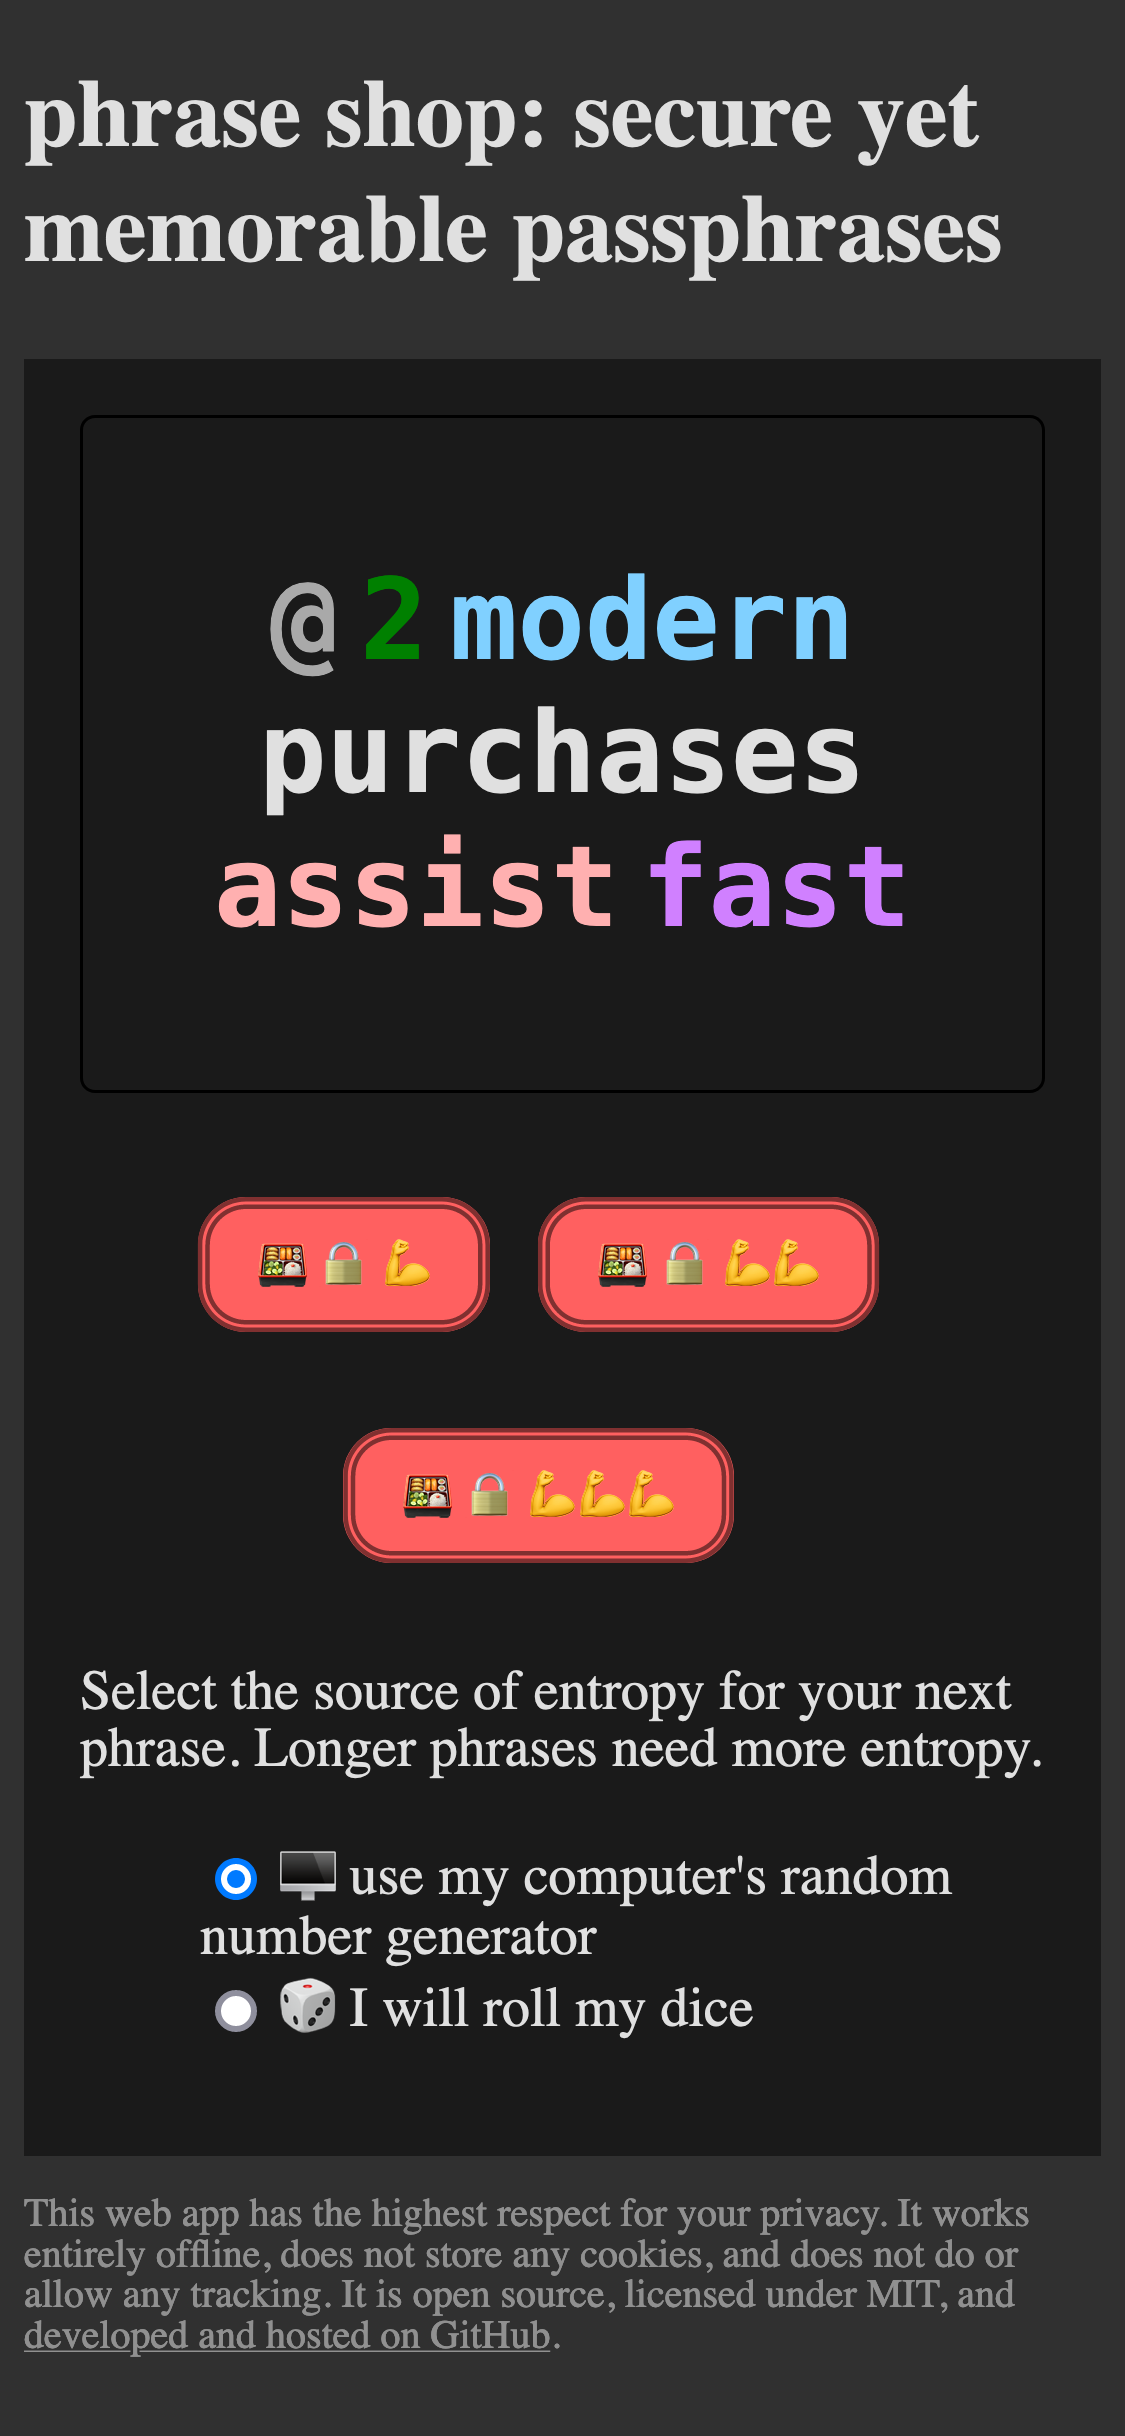
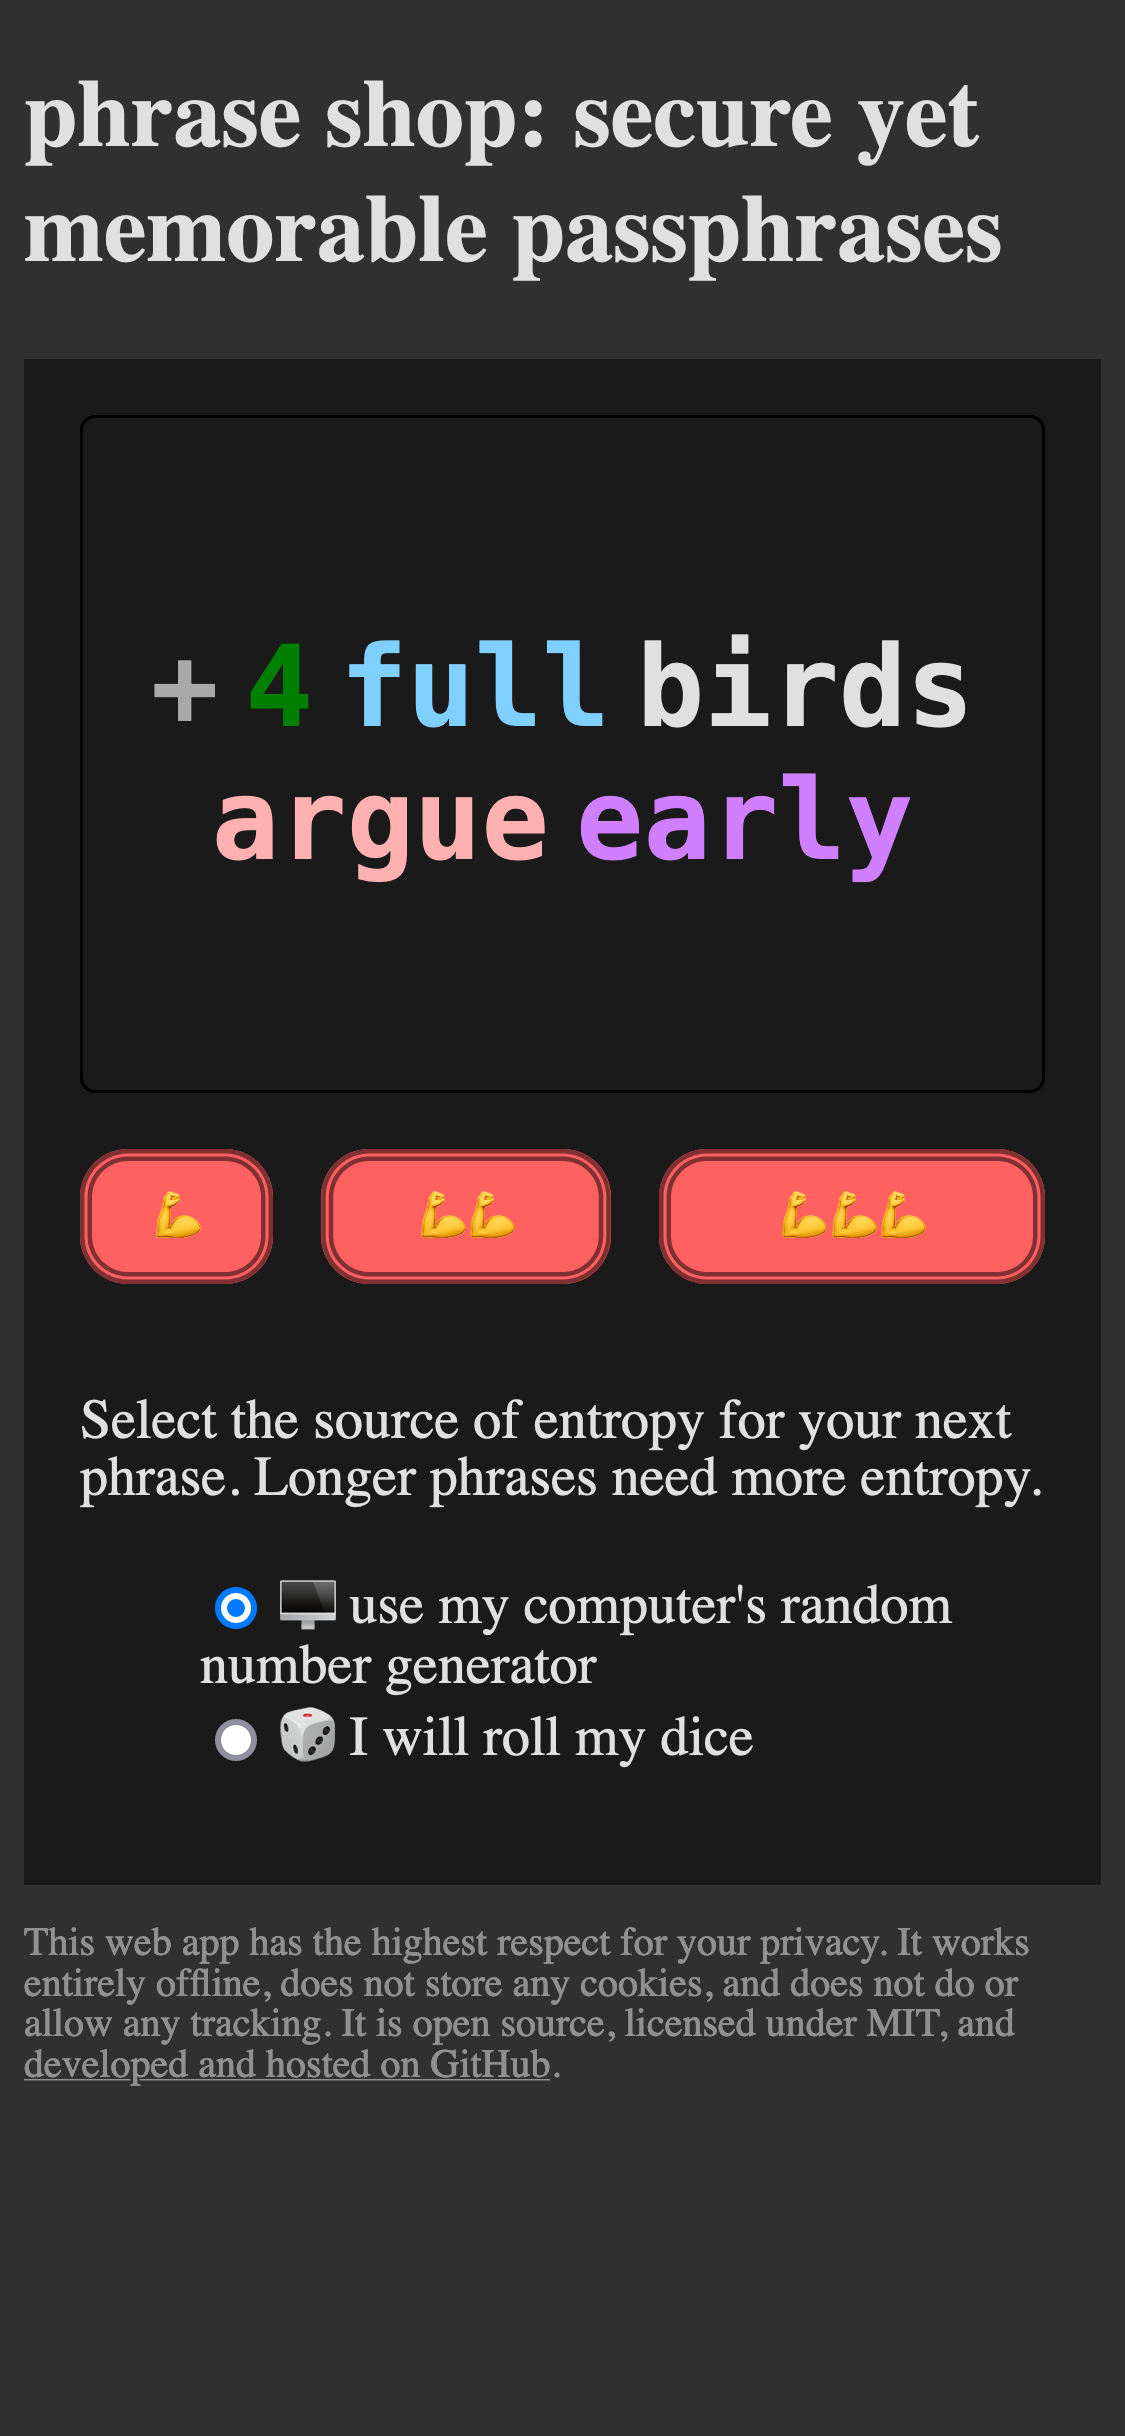
Increase spacing between buttons and entropy selection; update screenshot

diff --git a/docs/index.html b/docs/index.html
@@ -71,7 +71,7 @@
             display: inline-block;
         }
         div#entropy {
-            margin-top: 1em;
+            margin-top: 2em;
         }
         div#entropy li {
             list-style-type: none;
